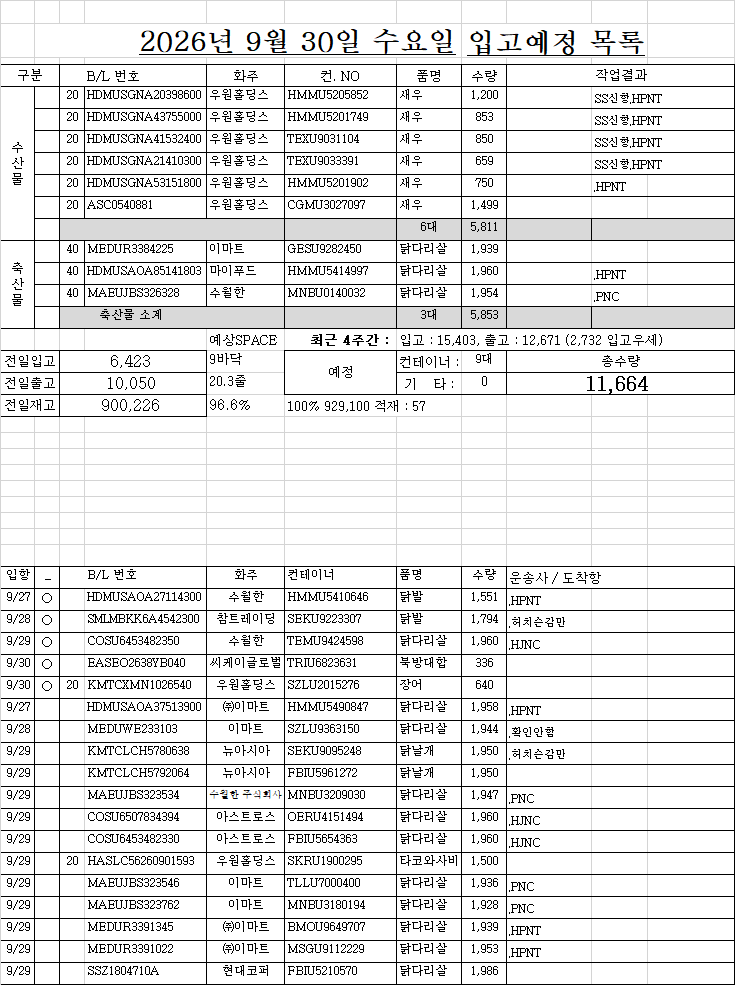
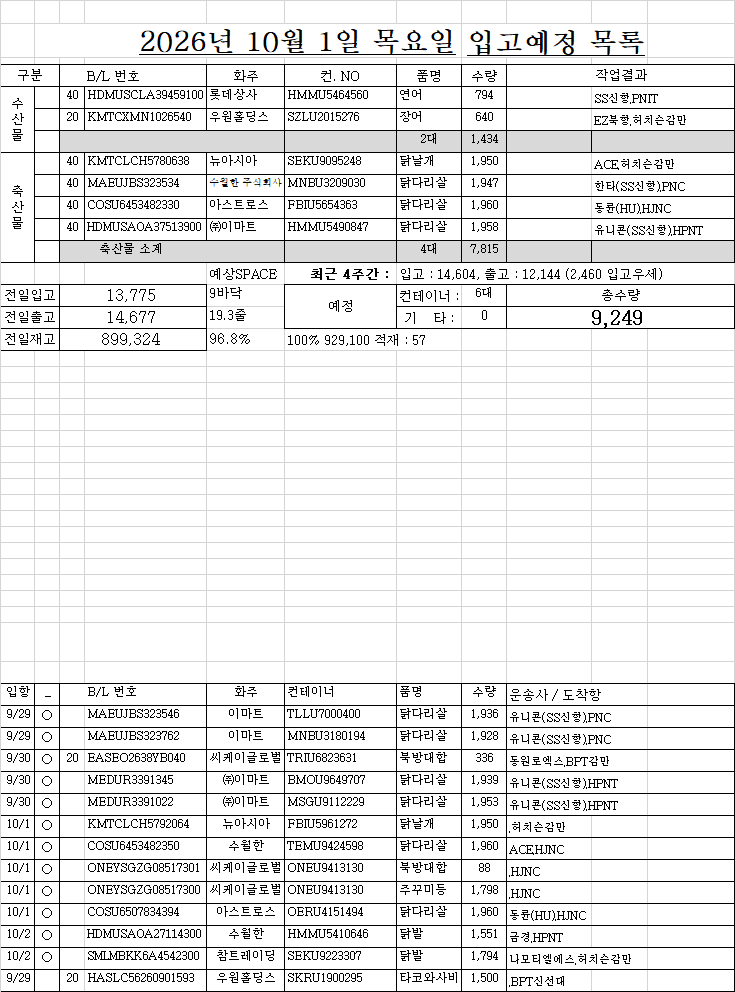
0930

Changed region(s): [[0.0, 0.5178, 1.0, 1.0], [0.0, 0.0305, 1.0, 0.4569]]

diff --git a/list.html b/list.html
@@ -171,75 +171,70 @@
 <!-- ★★★★★★ 따로 빼 놔야한다. 복붙하면 첫칸 비어도 되는데, 여기서는 첫칸비우면 당겨진다. -->
 <!-- ★ 엑셀범위를 브라우저 textarea에 붙여넣으면 첫셀 비어도 제대로 되는데... HTML에 붙여놓은 자료는 처음셀이 비어있으면 당겨짐 -->
 <div class="d-none" id="원본text_리스트1부터w요약열까지">작성	면허	B/LNO.	화주	컨테이너NO.	품명	수량	반입NO.	입항일	구분	도착일	도착시간	구분	운도VBA	04/27 월 07:21	화찰BL	화찰 선명	화물관리번호	화찰수량	화찰중량	화찰입항	리스트시트기준열	
-1		HDMUSGNA20398600	우원홀딩스	HMMU5205852	새우	1,200 		9/24	1			20	SS신항.HPNT	면허?, CY : 에이치엠엠피에스에이신항만(주), 컨진행 : 반입완료, 선사 : 에이치엠엠(주)	HDMUSGNA20398600	HMM HARVEST	26HDMUA502I-0283-	1,200 	6,950.00 	2026.09.24	09/29 화 16:19	
-1		HDMUSGNA43755000	우원홀딩스	HMMU5201749	새우	853 		9/24	1			20	SS신항.HPNT	면허?, CY : 에이치엠엠피에스에이신항만(주), 컨진행 : 반입완료, 선사 : 에이치엠엠(주)	HDMUSGNA43755000	HMM HARVEST	26HDMUA502I-0284-	853 	6,993.50 	2026.09.24	조회정보	
-1		HDMUSGNA41532400	우원홀딩스	TEXU9031104	새우	850 		9/24	1			20	SS신항.HPNT	면허?, CY : 에이치엠엠피에스에이신항만(주), 컨진행 : 반입완료, 선사 : 에이치엠엠(주)	HDMUSGNA41532400	HMM HARVEST	26HDMUA502I-0295-	850 	9,860.00 	2026.09.24	적재	57
-1		HDMUSGNA21410300	우원홀딩스	TEXU9033391	새우	659 		9/24	1			20	SS신항.HPNT	면허?, CY : 에이치엠엠피에스에이신항만(주), 컨진행 : 반입완료, 선사 : 에이치엠엠(주)	HDMUSGNA21410300	HMM HARVEST	26HDMUA502I-0294-	659 	4,613.00 	2026.09.24	4,617 	3줄
-1		HDMUSGNA53151800	우원홀딩스	HMMU5201902	새우	750 		9/24	1			20	.HPNT	면허?, CY : 에이치엠엠피에스에이신항만(주), 컨진행 : 반입완료, 선사 : 에이치엠엠(주)	HDMUSGNA53151800	HMM HARVEST	26HDMUA502I-0296-	750 	6,000.00 	2026.09.24	6,156 	4줄
-1		ASC0540881	우원홀딩스	CGMU3027097	새우	1,499 		9/27	1			20		면허?, CY : 동원글로벌터미널부산(주), 컨진행 : 항내 정박장소 이동신고, 선사 : 천경해운(주)	ASC0540881	SKY PRIDE	26CKCO0986I-2080-	1,499 	7,195.20 	2026.09.27	7,695 	5줄
-1	○	MEDUR3384225	이마트	GESU9282450	닭다리살	1,939 		9/26	2					(주)에스에스물류, CY : 부산컨테이너터미널(주), 컨진행 : 보세운송 신고 수리, 선사 : 엠에스씨코리아(주)	MEDUR3384225	MSC MANU IV	26MSCU4372I-0020-	1,939 	24,213.43 	2026.09.26	9,234 	6줄
-1	○	HDMUSAOA85141803	마이푸드	HMMU5414997	닭다리살	1,960 		9/27	2				.HPNT	(주)이지트랜스, CY : 에이치엠엠피에스에이신항만(주), 컨진행 : 보세운송 신고 수리, 선사 : 에이치엠엠(주)	HDMUSAOA85141803	HMM PRESTIGE	26HDMUA477I-0043-	1,960 	24,500.00 	2026.09.27	구분	대수
-1	○	MAEUJBS326328	수월한	MNBU0140032	닭다리살	1,954 		9/27	2				.PNC	(주)한타특수운송, CY : 부산신항만(주)자유무역지역, 컨진행 : 반입완료, 선사 : 한국머스크(주)	MAEUJBS326328	MAERSK VALLVIK	26MAEU0628I-1065-	1,954 	24,436.69 	2026.09.27	출고입고	4주간
-2	○	HDMUSAOA27114300	수월한	HMMU5410646	닭발	1,551 		9/27	2				.HPNT	(주)골든로지텍, CY : 에이치엠엠피에스에이신항만(주), 컨진행 : 보세운송 신고 수리, 선사 : 에이치엠엠(주)	HDMUSAOA27114300	HMM PRESTIGE	26HDMUA477I-0037-	1,551 	24,046.21 	2026.09.27	1일 7/5	9바닥줄
-2	○	SMLMBKK6A4542300	참트레이딩	SEKU9223307	닭발	1,794 		9/28	2				.허치슨감만	(주)나모티엘에스, CY : 한국허치슨터미널(주), 컨진행 : 반입완료, 선사 : 남성해운주식회사	SMLMBKK6A4542300	STARSHIP PEGASUS	26NSSLI098I-0007-	1,794 	22,604.40 	2026.09.28	12,671 	8.2
-2	○	COSU6453482350	수월한	TEMU9424598	닭다리살	1,960 		9/29	2				.HJNC	면허?, CY : 한진부산컨테이너터미널(주), 컨진행 : 하선신고 수리완료, 선사 : 에미리트쉬핑에이전시즈코리아 유한책임회사	COSU6453482350	ESL PORT KLANG	26EMIVB003I-2020-	1,960 	24,500.00 	2026.09.29	15,403 	10
-2	○	EASEO2638YB040	씨케이글로벌	TRIU6823631	북방대합	336 		9/30	1						EASEO2638YB040	EASLINE OSAKA	26EASKS068I-7739-0001	336 	1,500.00 	2026.09.30	내국제외	
-2	○	KMTCXMN1026540	우원홀딩스	SZLU2015276	장어	640 		9/30	1			20			KMTCXMN1026540	SAWASDEE SUNRISE	26SNKO3571I-0106-0001	640 	7,680.00 	2026.09.30	구분	대수
-		HDMUSAOA37513900	㈜이마트	HMMU5490847	닭다리살	1,958 		9/27	2				.HPNT	면허?, CY : 에이치엠엠피에스에이신항만(주), 컨진행 : 반입완료, 선사 : 에이치엠엠(주)	HDMUSAOA37513900	HMM PRESTIGE	26HDMUA477I-0038-	1,958 	24,492.64 	2026.09.27	수산	15 
-		MEDUWE233103	이마트	SZLU9363150	닭다리살	1,944 		9/28	2				.확인안함								축산	56 
-		KMTCLCH5780638	뉴아시아	SEKU9095248	닭날개	1,950 		9/29	2				.허치슨감만	면허?, CY : 한국허치슨터미널(주), 컨진행 : 항내 정박장소 이동신고, 선사 : 남성해운주식회사	KMTCLCH5780638	STARSHIP AQUILA	26NSSLI086I-0032-	1,950 	24,765.00 	2026.09.29	합계	71 
-		KMTCLCH5792064	뉴아시아	FBIU5961272	닭날개	1,950 		9/29	2					면허?, CY : 한국허치슨터미널(주), 컨진행 : 하선신고 수리완료, 선사 : 천경해운(주)	KMTCLCH5792064	SKY RAINBOW	26CKCO0980I-9029-	1,950 	24,765.00 	2026.09.29		
-		MAEUJBS323534	수월한 주식회사	MNBU3209030	닭다리살	1,947 		9/29	2				.PNC	면허?, CY : 부산신항만(주)자유무역지역, 컨진행 : 입항적재화물목록 운항정보 정정, 선사 : 한국머스크(주)	MAEUJBS323534	MAERSK SALINA	26MAEU0617I-1140-	1,947 	24,445.13 	2026.09.29	화주	대수
-		COSU6507834394	아스트로스	OERU4151494	닭다리살	1,960 		9/29	2				.HJNC	면허?, CY : 한진부산컨테이너터미널(주), 컨진행 : 하선신고 수리완료, 선사 : 에미리트쉬핑에이전시즈코리아 유한책임회사	COSU6507834394	ESL PORT KLANG	26EMIVB003I-2010-	1,960 	24,500.00 	2026.09.29	수월한	21
-		COSU6453482330	아스트로스	FBIU5654363	닭다리살	1,960 		9/29	2				.HJNC	면허?, CY : 한진부산컨테이너터미널(주), 컨진행 : 하선신고 수리완료, 선사 : 에미리트쉬핑에이전시즈코리아 유한책임회사	COSU6453482330	ESL PORT KLANG	26EMIVB003I-2015-	1,960 	24,500.00 	2026.09.29	우원홀딩스	9
-		HASLC56260901593	우원홀딩스	SKRU1900295	타코와사비	1,500 		9/29	1			20		면허?, CY : 신선대감만터미널(주) 신선대CY, 컨진행 : 입항적재화물목록 운항정보 정정, 선사 : 장금상선(주)	HASLC56260901593	SAWASDEE SIRIUS	26SNKO3612I-2081-	1,500 	10,485.00 	2026.09.29	씨케이글로벌	5
-		MAEUJBS323546	이마트	TLLU7000400	닭다리살	1,936 		9/29	2				.PNC	면허?, CY : 부산신항만(주)자유무역지역, 컨진행 : 입항적재화물목록 운항정보 정정, 선사 : 한국머스크(주)	MAEUJBS323546	MAERSK SALINA	26MAEU0617I-1142-	1,936 	24,176.01 	2026.09.29	이마트	4
-		MAEUJBS323762	이마트	MNBU3180194	닭다리살	1,928 		9/29	2				.PNC	면허?, CY : 부산신항만(주)자유무역지역, 컨진행 : 입항적재화물목록 운항정보 정정, 선사 : 한국머스크(주)	MAEUJBS323762	MAERSK SALINA	26MAEU0617I-1147-	1,928 	24,076.06 	2026.09.29	㈜이마트	4
-		MEDUR3391345	㈜이마트	BMOU9649707	닭다리살	1,939 		9/29	2				.HPNT	면허?, CY : 에이치엠엠피에스에이신항만(주), 컨진행 : 하선신고 수리완료, 선사 : 엠에스씨코리아(주)	MEDUR3391345	MSC EMMA	26MSCU3326I-0001-	1,939 	24,213.44 	2026.09.29	뉴아시아	4
-		MEDUR3391022	㈜이마트	MSGU9112229	닭다리살	1,953 		9/29	2				.HPNT	면허?, CY : 에이치엠엠피에스에이신항만(주), 컨진행 : 하선신고 수리완료, 선사 : 엠에스씨코리아(주)	MEDUR3391022	MSC EMMA	26MSCU3326I-0004-	1,953 	24,388.25 	2026.09.29	아스트로스	4
-		SSZ1804710A	현대코퍼	FBIU5210570	닭다리살	1,986 		9/29	2												현대코퍼	3
-		KMTCBKK3940787	뉴아시아	FBIU5965431	닭날개	1,950 		9/30	2					면허?, CY : 한국허치슨터미널(주), 컨진행 : 입항적재화물목록 심사완료, 선사 : 고려해운(주)	KMTCBKK3940787	KMTC TAIPEIS	26KMTC3317I-0005-	1,950 	24,375.00 	2026.09.30	씨제이프레시웨이㈜	3
-		ONEYSAOG41254402	대성무역	FSCU5833518	닭장각	1,568 		9/30	2				.HJNC								오케이푸드	3
-		ONEYSGZG08517301	씨케이글로벌	ONEU9413130	북방대합	88 		9/30	1				.HJNC								대성무역	2
-		ONEYSGZG08517300	씨케이글로벌	ONEU9413130	주꾸미등	1,798 		9/30	1				.HJNC								대상 주식회사	2
-		ONEYSGNGX8490600	우원홀딩스	SZLU3623938	갑오징어	1,503 		9/30	1			20	.HJNC								마이푸드	2
-		COSU6502560470	대상 주식회사	OERU4239672	닭다리살	1,916 		10/1	2				.BNCT								수월한 주식회사	2
-		MEDUWE230158	대상 주식회사	MSGU9089026	닭다리살	1,980 		10/1	2				.PNC								참트레이딩	1
-		HDMUSCLA39459100	롯데상사	HMMU5464560	연어	794 		10/1	1												주식회사 아스트로스	1
-		COSU6505268322	마이푸드	FBIU5759045	닭다리살	1,960 		10/1	2				.BNCT								롯데상사	1
-		COSU6453481650	수월한	TEMU9328038	닭다리살	1,917 		10/1	2				.BNCT									
-		COSU6507553588	수월한	FBIU5347182	닭다리살	1,917 		10/1	2				.BNCT									
-		COSU6505268325	씨제이프레시웨이㈜	OTPU6155886	닭다리살	1,960 		10/1	2				.BNCT									
-		COSU6508130956	씨제이프레시웨이㈜	OERU4188960	닭다리살	1,960 		10/1	2				.BNCT									
-		COSU6506972700	주식회사 아스트로스	OERU4170025	닭다리살	1,875 		10/1	2				.BNCT			OOCL FRANCE						
-		ONEYSAOG36981800	현대코퍼	ONEU9466721	닭장각	1,580 		10/1	2													
-		MAEU721561258	현대코퍼	MMAU1238359	닭장각	1,580 		10/1	2													
-		MAEUJBS323920	수월한 주식회사	MNBU0175975	닭다리살	1,948 		10/2	2				.PNC			MAERSK TOKYO						
-		ONEYSAOG40048413	수월한	ONEU9132473	닭다리살	1,917 		10/3	2				.HJNC									
-		HDMUSAOA06354300	수월한	HMMU5433847	닭다리살	1,958 		10/3	2				.HPNT									
-		HDMUSAOA68130100	수월한	HMMU5534164	닭다리살	1,958 		10/3	2				.HPNT									
-		HDMUSAOA59575104	수월한	HMMU5478883	닭다리살	1,960 		10/3	2				.HPNT									
-		HDMUSAOA59575101	수월한	HDMU5621424	닭다리살	1,960 		10/3	2				.HPNT									
-		ONEYRICCAR554800	씨케이글로벌	ONEU9386992	북방대합	1,840 		10/4	1				.HJNC									
-		ONEYSAOG40048412	오케이푸드	SZLU9228910	닭다리살	1,960 		10/4	2													
-		ONEYSAOG40048415	오케이푸드	SEGU9898796	닭다리살	1,960 		10/4	2													
-		ONEYSAOG40048414	오케이푸드	FSCU5828846	닭장각	1,568 		10/4	2													
-		MEDUR3384324	㈜이마트	MEDU9615225	닭다리살			10/5	2				.확인안함			MSC JUBILEE IX						
+1	○	HDMUSCLA39459100	롯데상사	HMMU5464560	연어	794 		9/30	1				SS신항.PNIT		HDMUSCLA39459100	MSC CANDIDA	26MSCU6253I-4005-	794 	24,242.76 	2026.09.30	09/30 수 16:51	
+1	○	KMTCXMN1026540	우원홀딩스	SZLU2015276	장어	640 		9/30	1			20	EZ북항.허치슨감만	(주)이지트랜스, CY : 한국허치슨터미널(주), 컨진행 : 입항적재화물목록 운항정보 정정, 선사 : 장금상선(주), 포딩 : 주식회사 글로벌해현	KMTCXMN1026540	SAWASDEE SUNRISE	26SNKO3571I-0106-0001	640 	7,680.00 	2026.09.30	조회정보	
+1	○	KMTCLCH5780638	뉴아시아	SEKU9095248	닭날개	1,950 		10/1	2				ACE.허치슨감만	에이스로지스틱(주), CY : 한국허치슨터미널(주), 컨진행 : 보세운송 신고 수리, 선사 : 남성해운주식회사	KMTCLCH5780638	STARSHIP AQUILA	26NSSLI086I-0032-	1,950 	24,765.00 	2026.09.29	적재	57
+1	○	MAEUJBS323534	수월한 주식회사	MNBU3209030	닭다리살	1,947 		10/1	2				한타(SS신항).PNC	면허?, CY : 부산신항만(주)자유무역지역, 컨진행 : 입항적재화물목록 운항정보 정정, 선사 : 한국머스크(주)	MAEUJBS323534	MAERSK SALINA	26MAEU0617I-1140-	1,947 	24,445.13 	2026.09.29	4,617 	3줄
+1	○	COSU6453482330	아스트로스	FBIU5654363	닭다리살	1,960 		10/1	2				동륜(HU).HJNC	면허?, CY : 한진부산컨테이너터미널(주), 컨진행 : 하선신고 수리완료, 선사 : 에미리트쉬핑에이전시즈코리아 유한책임회사	COSU6453482330	ESL PORT KLANG	26EMIVB003I-2015-	1,960 	24,500.00 	2026.09.29	6,156 	4줄
+1	○	HDMUSAOA37513900	㈜이마트	HMMU5490847	닭다리살	1,958 		10/1	2				유니콘(SS신항).HPNT	(주)에스에스물류, CY : 에이치엠엠피에스에이신항만(주), 컨진행 : 보세운송 신고 수리, 선사 : 에이치엠엠(주)	HDMUSAOA37513900	HMM PRESTIGE	26HDMUA477I-0038-	1,958 	24,492.64 	2026.09.27	7,695 	5줄
+2	○	MAEUJBS323546	이마트	TLLU7000400	닭다리살	1,936 		9/29	2				유니콘(SS신항).PNC	(주)에스에스물류, CY : 부산신항만(주)자유무역지역, 컨진행 : 반입완료, 선사 : 한국머스크(주)	MAEUJBS323546	MAERSK SALINA	26MAEU0617I-1142-	1,936 	24,176.01 	2026.09.29	9,234 	6줄
+2	○	MAEUJBS323762	이마트	MNBU3180194	닭다리살	1,928 		9/29	2				유니콘(SS신항).PNC	(주)에스에스물류, CY : 부산신항만(주)자유무역지역, 컨진행 : 반입완료, 선사 : 한국머스크(주)	MAEUJBS323762	MAERSK SALINA	26MAEU0617I-1147-	1,928 	24,076.06 	2026.09.29	구분	대수
+2	○	EASEO2638YB040	씨케이글로벌	TRIU6823631	북방대합	336 		9/30	1			20	동원로엑스.BPT감만	동원로엑스㈜, CY : 신선대감만터미널(주) 감만CY, 컨진행 : 하선신고 수리완료, 선사 : 이에이에스쉽핑코리아(주), 포딩 : 씨디엠해운항공(주)	EASEO2638YB040	EASLINE OSAKA	26EASKS068I-7739-0001	336 	1,500.00 	2026.09.30	출고입고	4주간
+2	○	MEDUR3391345	㈜이마트	BMOU9649707	닭다리살	1,939 		9/30	2				유니콘(SS신항).HPNT	(주)에스에스물류, CY : 에이치엠엠피에스에이신항만(주), 컨진행 : 반입완료, 선사 : 엠에스씨코리아(주)	MEDUR3391345	MSC EMMA	26MSCU3326I-0001-	1,939 	24,213.44 	2026.09.29	1일 7/5	9바닥줄
+2	○	MEDUR3391022	㈜이마트	MSGU9112229	닭다리살	1,953 		9/30	2				유니콘(SS신항).HPNT	(주)에스에스물류, CY : 에이치엠엠피에스에이신항만(주), 컨진행 : 반입완료, 선사 : 엠에스씨코리아(주)	MEDUR3391022	MSC EMMA	26MSCU3326I-0004-	1,953 	24,388.25 	2026.09.29	12,691 	8.2
+2	○	KMTCLCH5792064	뉴아시아	FBIU5961272	닭날개	1,950 		10/1	2				.허치슨감만	면허?, CY : 한국허치슨터미널(주), 컨진행 : 하선신고 수리완료, 선사 : 천경해운(주)	KMTCLCH5792064	SKY RAINBOW	26CKCO0980I-9029-	1,950 	24,765.00 	2026.09.29	14,769 	9.6
+2	○	COSU6453482350	수월한	TEMU9424598	닭다리살	1,960 		10/1	2				ACE.HJNC	에이스로지스틱(주), CY : 한진부산컨테이너터미널(주), 컨진행 : 반입완료, 선사 : 에미리트쉬핑에이전시즈코리아 유한책임회사	COSU6453482350	ESL PORT KLANG	26EMIVB003I-2020-	1,960 	24,500.00 	2026.09.29	내국제외	
+2	○	ONEYSGZG08517301	씨케이글로벌	ONEU9413130	북방대합	88 		10/1	1				.HJNC		ONEYSGZG08517301	ONE SWAN	26ONEY1527I-5197-	88 	609.50 	2026.10.01	구분	대수
+2	○	ONEYSGZG08517300	씨케이글로벌	ONEU9413130	주꾸미등	1,798 		10/1	1				.HJNC		ONEYSGZG08517300	ONE SWAN	26ONEY1527I-5196-	1,798 	21,279.20 	2026.10.01	수산	11 
+2	○	COSU6507834394	아스트로스	OERU4151494	닭다리살	1,960 		10/1	2				동륜(HU).HJNC	면허?, CY : 한진부산컨테이너터미널(주), 컨진행 : 하선신고 수리완료, 선사 : 에미리트쉬핑에이전시즈코리아 유한책임회사	COSU6507834394	ESL PORT KLANG	26EMIVB003I-2010-	1,960 	24,500.00 	2026.09.29	축산	55 
+2	○	HDMUSAOA27114300	수월한	HMMU5410646	닭발	1,551 		10/2	2				금경.HPNT	(주)골든로지텍, CY : 에이치엠엠피에스에이신항만(주), 컨진행 : 보세운송 신고 수리, 선사 : 에이치엠엠(주)	HDMUSAOA27114300	HMM PRESTIGE	26HDMUA477I-0037-	1,551 	24,046.21 	2026.09.27	합계	66 
+2	○	SMLMBKK6A4542300	참트레이딩	SEKU9223307	닭발	1,794 		10/2	2				나모티엘에스.허치슨감만	(주)나모티엘에스, CY : 한국허치슨터미널(주), 컨진행 : 반입완료, 선사 : 남성해운주식회사	SMLMBKK6A4542300	STARSHIP PEGASUS	26NSSLI098I-0007-	1,794 	22,604.40 	2026.09.28		
+		HASLC56260901593	우원홀딩스	SKRU1900295	타코와사비	1,500 		9/29	1			20	.BPT신선대	면허?, CY : 신선대감만터미널(주) 신선대CY, 컨진행 : 입항적재화물목록 운항정보 정정, 선사 : 장금상선(주)	HASLC56260901593	SAWASDEE SIRIUS	26SNKO3612I-2081-	1,500 	10,485.00 	2026.09.29	화주	대수
+		KMTCBKK3940787	뉴아시아	FBIU5965431	닭날개	1,950 		10/1	2				.허치슨감만	면허?, CY : 한국허치슨터미널(주), 컨진행 : 입항적재화물목록 심사완료, 선사 : 고려해운(주)	KMTCBKK3940787	KMTC TAIPEIS	26KMTC3317I-0005-	1,950 	24,375.00 	2026.09.30	수월한	20
+		ONEYSAOG41254402	대성무역	FSCU5833518	닭장각	1,568 		10/1	2				.HJNC								씨케이글로벌	6
+		CKCOXM2604188	씨에이치씨	DFOU6113298	새우	1,800 		10/1	1				.허치슨감만								뉴아시아	5
+		ONEYSGNGX8490600	우원홀딩스	SZLU3623938	갑오징어	1,503 		10/1	1			20	.HJNC								아스트로스	4
+		ONEYSAOG36981800	현대코퍼	ONEU9466721	닭장각	1,580 		10/1	2				.HJNC								㈜이마트	4
+		MAEU721561258	현대코퍼	MMAU1238359	닭장각	1,580 		10/1	2				.PNC								우원홀딩스	3
+		MEDUWE230158	대상 주식회사	MSGU9089026	닭다리살	1,980 		10/3	2				.BCT								이마트	3
+		ONEYRICCAR554800	씨케이글로벌	ONEU9386992	북방대합	1,840 		10/3	1				.HJNC								현대코퍼	3
+		ONEYBKKGZ0671500	디케이통상	OTPU6231667	닭근위	1,950 		10/4	2				.허치슨감만								오케이푸드	3
+		ONEYSAOG40048413	수월한	ONEU9132473	닭다리살	1,917 		10/4	2				.HJNC								씨제이프레시웨이㈜	3
+		ONEYSAOG40048412	오케이푸드	SZLU9228910	닭다리살	1,960 		10/4	2				.HJNC								대상 주식회사	2
+		ONEYSAOG40048415	오케이푸드	SEGU9898796	닭다리살	1,960 		10/4	2				.HJNC								대성무역	2
+		ONEYSAOG40048414	오케이푸드	FSCU5828846	닭장각	1,568 		10/4	2				.HJNC								수월한 주식회사	2
+		COSU6502560470	대상 주식회사	OERU4239672	닭다리살	1,916 		10/5	2				.BNCT								롯데상사	1
+		COSU6505268322	마이푸드	FBIU5759045	닭다리살	1,960 		10/5	2				.BNCT								디케이통상	1
+		COSU6453481650	수월한	TEMU9328038	닭다리살	1,917 		10/5	2				.BNCT								씨에이치씨	1
+		COSU6507553588	수월한	FBIU5347182	닭다리살	1,917 		10/5	2				.BNCT								마이푸드	1
+		MAEUJBS323920	수월한 주식회사	MNBU0175975	닭다리살	1,948 		10/5	2				.PNC			MAERSK TOKYO					참트레이딩	1
+		COSU6505268325	씨제이프레시웨이㈜	OTPU6155886	닭다리살	1,960 		10/5	2				.BNCT								주식회사 아스트로스	1
+		COSU6508130956	씨제이프레시웨이㈜	OERU4188960	닭다리살	1,960 		10/5	2				.BNCT									
+		MAEU275087824	씨케이글로벌	MNBU0512525	열빙어	1,330 		10/5	1													
+		COSU6506972700	주식회사 아스트로스	OERU4170025	닭다리살	1,875 		10/5	2				.BNCT			OOCL FRANCE						
+		HDMUSAOA06354300	수월한	HMMU5433847	닭다리살	1,958 		10/6	2				.HPNT									
+		HDMUSAOA68130100	수월한	HMMU5534164	닭다리살	1,958 		10/6	2				.HPNT									
+		HDMUSAOA59575104	수월한	HMMU5478883	닭다리살	1,960 		10/6	2				.HPNT									
+		HDMUSAOA59575101	수월한	HDMU5621424	닭다리살	1,960 		10/6	2				.HPNT									
 		YMJAB951092111	수월한	YMLU5537090	닭다리살	1,960 		10/6	2				.확인안함									
 		YMJAB951092062	씨제이프레시웨이㈜	YMLU5500384	닭다리살	1,960 		10/6	2				.확인안함									
-		HLCURTM260763821	씨케이글로벌	HLBU9194112	열빙어알	890 		10/6	1				.확인안함									
-		ONEYSAOG44141911	수월한	OTPU6317098	닭다리살	1,917 		10/12	2				.확인안함									
-		ONEYSAOG44149301	대성무역	TTNU8745955	닭다리살	1,960 		10/15	2				.확인안함									
+		SSZ1804710A	현대코퍼	FBIU5210570	닭다리살	1,986 		10/7	2				.BNCT									
+		MEDUWE233103	이마트	SZLU9363150	닭다리살	1,944 		10/9	2				.HPNT									
+		ONEYSAOG44141911	수월한	OTPU6317098	닭다리살	1,917 		10/11	2				.PNIT									
+		HLCURTM260763821	씨케이글로벌	HLBU9194112	열빙어알	890 		10/14	1				.PNC									
 		MAEUJBS327643	수월한	MNBU0422036	닭다리살	1,958 		10/16	2				.PNC									
-		HDMUSAOA23097900	수월한	TCLU1310837	닭다리살	1,958 		10/16	2				.확인안함									
-		HDMUSAOA02881000	수월한	TLLU1087510	닭다리살	1,953 		10/16	2				.확인안함									
+		HDMUSAOA23097900	수월한	TCLU1310837	닭다리살	1,958 		10/16	2				.HPNT									
+		HDMUSAOA02881000	수월한	TLLU1087510	닭다리살	1,953 		10/16	2				.HPNT									
 		HDMUSAOA98837200	수월한	HDMU5532775	닭다리살	1,960 		10/16	2				.확인안함									
+		ONEYSAOG44149301	대성무역	TTNU8745955	닭다리살	1,960 		10/17	2				.PNIT									
+		MEDUR3384324	㈜이마트	MEDU9615225	닭다리살			10/17	2				.PNC			MSC JUBILEE IX						
 		YMJAB951092475	아스트로스	YMLU5487169	닭다리살	1,960 		10/21	2													
 		HDMUSAOA46495702	아스트로스	HMMU5506250	닭다리살	1,960 		10/25	2				.확인안함									
 		MAEUJBS328088	수월한	MNBU0340489	닭다리살	1,839 		11/3	2				.확인안함									
 		MAEUJBS330744	수월한	SUDU8072963	닭다리살	1,958 		11/7	2				.확인안함									
 		MAEUJBS330421	수월한	TLLU1168567	닭다리살	1,958 		11/14	2				.확인안함									
-		MAEUJBS330940	수월한	MNBU0066629	닭다리살	1,868 		11/14	2													
+		MAEUJBS330940	수월한	MNBU0066629	닭다리살	1,868 		11/14	2				.확인안함									
+		HASLS22260802121	뉴아시아	FSCU5889121	닭날개	1,940 			2													
 		KMTCLCH5714614	뉴아시아	FBIU5377443	닭다리살	1,925 			2				.허치슨감만									
 		COSU6508709367	수월한	OERU4323274	닭다리살	1,917 			2													
 
